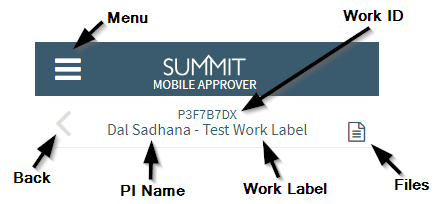
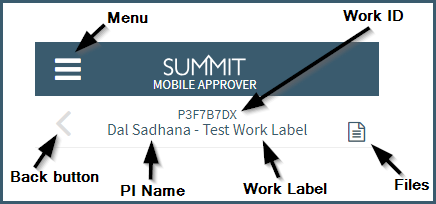
updated mobile approver docs

Changed region(s): [[0.0, 0.0, 1.0, 1.0], [0.1491, 0.0882, 0.2683, 0.2647], [0.0596, 0.6471, 0.1491, 0.8235]]

diff --git a/docs/Approvals/mobile.md b/docs/Approvals/mobile.md
@@ -2,119 +2,197 @@
 
 ![Mobile Approver Logo](../images/approvals/mobileApproverLogo.png)
 
-The purpose of the Summit Mobile Approver is to give the ability for approvers who normally use the desktop Summit application for approving proposals that are in routing the chance to also view, approve, and return for correction approvals using your mobile devise.
+<br>
 
-# Logging In
-For each user, there may be multiple ways to get to the Mobile Approver on your mobile device.  The first way is to use the URL shown here, [https://mobile.summit.cloud.vt.edu/](https://mobile.summit.cloud.vt.edu/) and type it into your devise's web browser.  You'll still login via CAS as you would on the desktop.  Once signing in via CAS and have the mobile approver displaying, then you can either save it as a bookmark or add it to your Home screen for quick access.
+The purpose of the Summit Mobile Approver is to give the ability for approvers who normally use the desktop Summit application for approving proposals that are in routing the chance to also view, approve, and return for correction approvals using your mobile device.
 
-Once logged in, you will first be taken to your "To Be Approved" folder.
+## Logging In
+For each user, there may be multiple ways to get to the Mobile Approver on your mobile device.  The first way is to use the URL shown here, [https://mobile.summit.cloud.vt.edu/](https://mobile.summit.cloud.vt.edu/) and type it into your device's web browser.  You'll still login via CAS as you would on the desktop.  Once signing in via CAS and have the mobile approver displaying, then you can either save it as a bookmark or add it to your Home screen for quick access.
+
+Once logged in, you will first be taken to your "To Be Approved" folder.  
+
+<br>
 
 ![Approval Open](../images/approvals/approvalOpen.png)
 
-# Navigation
-The same folders that appear in the Desktop version of Summit, will also appear in the Mobile Approver. By clicking the folder icon in the upper right, the 4 Approver folders will expand (To Be Approved, Pending, Approved, and Canceled).
+<br>
+
+## Navigation
+The same folders that appear in the Desktop version of Summit will also appear in the Mobile Approver. By clicking the folder icon in the upper right, the 4 Approver folders will expand (To Be Approved, Pending, Approved, and Canceled).
+
+<br>
 
 ![Approver Folders](../images/approvals/approverFolders.png)
 
-# Sections
+<br>
+
+## Sections
 
 **Approval Header**  
-Once in an approval, as shown below certain information and navigation items are displayed.
+Once in an approval, as shown below, certain information and navigation items are displayed.
+
+<br>
 
 ![Approval Header](../images/approvals/approvalHeader.png)
+
+<br>
 
 **General Information**  
 The General Information section of the mobile approver has the Full Title, Sponsor & Target Deadlines, Sponsor Name, Type of Work, and Submitting Organization.
 
+<br>
+
 ![General Information Section](../images/approvals/generalInfoSection.png)
 
-**Proposal Team**  
-Each Proposal Team member is listed, starting with the Principal Investigator (PI), the CO-PIs, followed by any Proposal Team members.  
+<br>
 
-Tapping on an individual's name, will twirl open additional information; comprising the Credit Organization for the user,
+**Proposal Team**  
+Each Proposal Team member is listed, starting with the Principal Investigator (PI), the CO-PIs, followed by any Proposal Team members.
+
+Tapping on an individual's name will twirl open additional information; comprising the Credit Organization for the Proposal team,
 the credit percentage, and the Access Level.
 
 The last piece of information below all Team members is the Total % Credit, which should always total to a 100%.
 
+<br>
+
 ![Proposal Team Section](../images/approvals/proposalTeamSection.png)
 
+<br>
+
 **Budget Information**  
-The budget section comprises the budget file (excel document that can be downloaded on your mobile device if you have the proper applications to view such documents), Period of Performance, Budget Location, Indirect Rate, Indirect Reason, and Indirect Type.
+The budget section comprises the budget file (most likely an excel document that can be downloaded on your mobile device if you have the proper applications to view such documents), Period of Performance, Budget Location, Indirect Rate, Indirect Reason, and Indirect Type.
+
+<br>
 
 ![Budget Section](../images/approvals/budgetSection.png)
 
-If Budget includes Cost Share, Form B, Form C, Subfunds, or Subcontractor they will individually marked "Yes", if not marked "N/A".
+<br>
+
+If Budget includes Cost Share, Form B, Form C, Subfunds, or Subcontractor they will be individually marked "Yes", if not they will be marked "N/A".
 
 - Budget Totals
     - Direct Costs
     - Indirect Costs
     - Total Costs
 
+<br>
+
 ![Budget Section 2](../images/approvals/budgetSection2.png)
+
+<br>
 
 **Cost Share**  
 The cost share section will display the total cost share amount, rationale, and requirement for the cost share.  Each category of the cost share will also display, along with the individual item totals.
 
+<br>
+
 ![Cost Share Section](../images/approvals/costShareSection.png)
+
+<br>
 
 **Subcontractors**  
 This section will show the name of the Subcontractor, as well as the name of the contact for the sub, their email, and their phone number.
 
+<br>
+
 ![Subcontractor Section](../images/approvals/subSection.png)
 
+<br>
+
 **Compliance**  
-Only compliance questions answered in the affirmative in the work editor from the desktop will show in this section (not every compliance answer will show, only ones that applicable and need attention).  For example, as you see below only two bullet points are shown indicating there will be research that involves Organization or Foreign Nationals and that the project will use Vertebrate Animals.  
+Only compliance questions answered in the affirmative in the work editor from the desktop will show in this section (not every compliance answer will show, only ones that are applicable and need attention).  For example, as you see below, only two bullet points are shown indicating there will be research that involves International Organization or Foreign Nationals and that the project will use Vertebrate Animals.  
+
+<br>
 
 ![Compliance Section](../images/approvals/complianceSection.png)
+
+<br>
 
 **Approval Decisions**  
 This section shows the routing chains needed to get an approval into the "Approved" status.  Shown below is an example of a 2 organization routing chain, where the first organization "Building Construction" is the first needed approval.  Once one of the three approvers listed in "Building Construction" approve, it will be sent to the "College of Architecture" for approval.  Then when both organizations have approved, this approval will be "Approved" and the approval itself will be moved to the "Approved" folder.
 
+<br>
+
 ![Approval Decisions Section](../images/approvals/approvalDecisions.png)
 
-# Actions
+<br>
+
+## Actions
 
 There are three actions a user can perform in the mobile approver, the same three actions that can be performed in the desktop approval.  The descriptions for the three are listed below:
 
+<br>
+
 ![Mobile Buttons](../images/approvals/mobileButtons.png)
+
+<br>
 
 **Approve**  
 After clicking "Approve" while in the Approval, it will pop-up a modal displaying all organizations you as the user have access to approve.  
 
+<br>
+
 ![Mobile Approve Button](../images/approvals/mobileApproveButton.png)
 
-Once you check the organization you are approving as (one or more can be selected), it will enable the "Approve" button to finalize your part of the approval and will then either send it to the next in the approval chain or approval the proposal.  If no organization is selected on this screen, then the "Approve" button will stay disabled.
+<br>
+
+If there is one or more check boxes, make sure at least one is selected and it will enable the "Approve" button to finalize your part of the approval and will then either send it to the next in the approval chain or "Approve" the proposal.  If no organization is selected on this screen, then the "Approve" button will stay disabled.
+
+<br>
 
 ![Mobile Approve Button Selected](../images/approvals/mobileApproveButtonAccepted.png)
+
+<br>
 
 **Return for Correction**  
 Just as in the desktop version, an approver can send the approval back to the proposal team if a correction is needed.  
 
+<br>
+
 ![Mobile Return Button](../images/approvals/mobileReturnButton.png)
 
-When first selecting "Return for Correction" the modal will appear with the button disabled.  It is required to provide text that will be visible to all users with access to the proposal, as well as an email that will be sent to all applicable users giving your reason why you took the proposal out of routing.
+<br>
+
+When first selecting "Return for Correction", the modal will appear with the button disabled.  It is required to provide text that will be visible, to all users with access to the proposal giving your reason why you took the proposal out of routing. Applicable users will also receive an email with the same information.
+
+<br>
 
 ![Mobile Return Button Return](../images/approvals/mobileReturnButtonReturn.png)
 
+<br>
+
 **Remove Outdated Request**  
-When a proposal is taken out of routing, the approval will stay in the To be Approved list where a user can acknowledge the cancellation.  The date, user that canceled routing, and the comment left by the user that canceled will appear the acknowledgment.
+When a proposal is taken out of routing, the approval will stay in the To be Approved list where a user can acknowledge the cancellation.  The date, user that canceled routing, and the comment left by the user that canceled will appear in the acknowledgment.
+
+<br>
 
 ![Mobile Return Button Return](../images/approvals/mobileCanceledAcknowledgement.png)
 
-# Files
+<br>
+
+## Files
 
 While in an approval, clicking the top right file icon takes you to the approval's files.  
 
+<br>
+
 ![Files Icon](../images/approvals/filesIcon.png)
+
+<br>
 
 It will list all files except that of the budget (which can be found specifically in the budget section of the approval) and will not shows any subcontractor files.  One other file exception is noted below in the Limitations section.
 
+<br>
+
 ![Files View](../images/approvals/filesView.png)
 
-# Limitations  
+<br>
+
+## Limitations  
 
 - File downloading
-    - Can only download/view files your mobile device is already capable of handling
+    - Can only download/view files your mobile device is capable of handling
 - Cost Share in the Mobile Approver only shows one level down from the section totals and does not include individual pieces of data like percent amounts for personnel cost share.
 
 <br>
